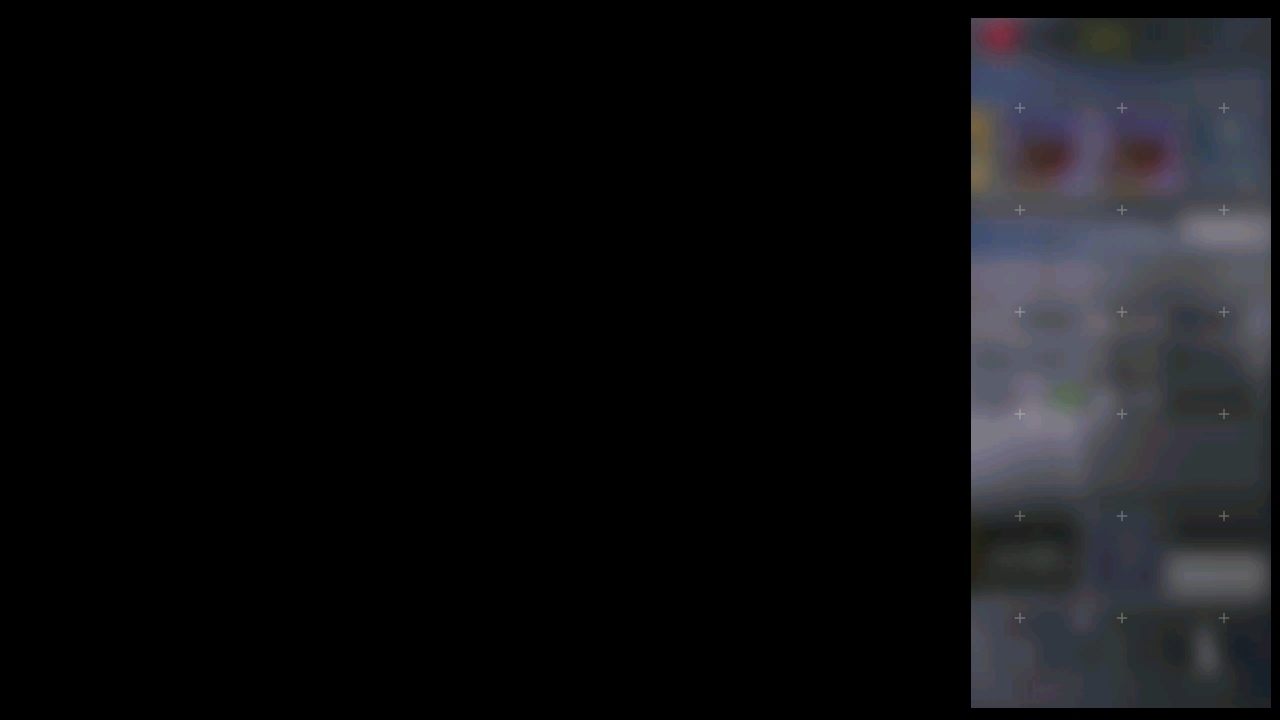
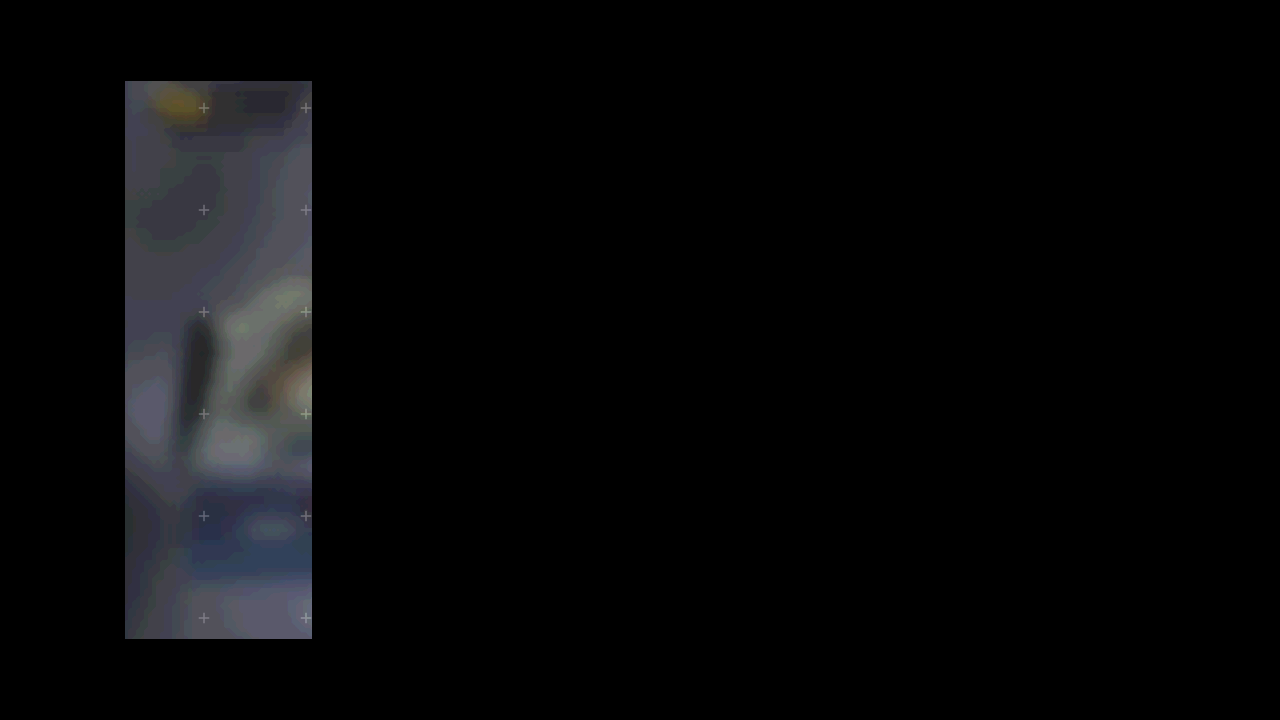
fix: UPGRADE_QUIT area

diff --git a/module/equipment/assets.py b/module/equipment/assets.py
@@ -29,4 +29,4 @@ SWIPE_AREA = Button(area={'cn': (220, 167, 580, 527), 'en': (220, 167, 580, 527)
 SWIPE_CHECK = Button(area={'cn': (190, 353, 610, 455), 'en': (190, 353, 610, 455), 'jp': (190, 353, 610, 455), 'tw': (190, 353, 610, 455)}, color={'cn': (171, 180, 198), 'en': (171, 180, 198), 'jp': (171, 180, 198), 'tw': (171, 180, 198)}, button={'cn': (190, 353, 610, 455), 'en': (190, 353, 610, 455), 'jp': (190, 353, 610, 455), 'tw': (190, 353, 610, 455)}, file={'cn': './assets/cn/equipment/SWIPE_CHECK.png', 'en': './assets/en/equipment/SWIPE_CHECK.png', 'jp': './assets/jp/equipment/SWIPE_CHECK.png', 'tw': './assets/tw/equipment/SWIPE_CHECK.png'})
 UPGRADE_ENTER = Button(area={'cn': (759, 624, 919, 674), 'en': (759, 624, 919, 674), 'jp': (759, 624, 919, 674), 'tw': (759, 624, 919, 674)}, color={'cn': (228, 159, 66), 'en': (228, 159, 66), 'jp': (228, 159, 66), 'tw': (228, 159, 66)}, button={'cn': (759, 624, 919, 674), 'en': (759, 624, 919, 674), 'jp': (759, 624, 919, 674), 'tw': (759, 624, 919, 674)}, file={'cn': './assets/cn/equipment/UPGRADE_ENTER.png', 'en': './assets/cn/equipment/UPGRADE_ENTER.png', 'jp': './assets/cn/equipment/UPGRADE_ENTER.png', 'tw': './assets/cn/equipment/UPGRADE_ENTER.png'})
 UPGRADE_ENTER_CHECK = Button(area={'cn': (825, 528, 859, 559), 'en': (825, 528, 859, 559), 'jp': (825, 528, 859, 559), 'tw': (825, 528, 859, 559)}, color={'cn': (163, 138, 71), 'en': (163, 138, 71), 'jp': (163, 138, 71), 'tw': (163, 138, 71)}, button={'cn': (825, 528, 859, 559), 'en': (825, 528, 859, 559), 'jp': (825, 528, 859, 559), 'tw': (825, 528, 859, 559)}, file={'cn': './assets/cn/equipment/UPGRADE_ENTER_CHECK.png', 'en': './assets/cn/equipment/UPGRADE_ENTER_CHECK.png', 'jp': './assets/cn/equipment/UPGRADE_ENTER_CHECK.png', 'tw': './assets/cn/equipment/UPGRADE_ENTER_CHECK.png'})
-UPGRADE_QUIT = Button(area={'cn': (971, 18, 1271, 708), 'en': (971, 18, 1271, 708), 'jp': (971, 18, 1271, 708), 'tw': (971, 18, 1271, 708)}, color={'cn': (68, 70, 78), 'en': (68, 70, 78), 'jp': (68, 70, 78), 'tw': (68, 70, 78)}, button={'cn': (971, 18, 1271, 708), 'en': (971, 18, 1271, 708), 'jp': (971, 18, 1271, 708), 'tw': (971, 18, 1271, 708)}, file={'cn': './assets/cn/equipment/UPGRADE_QUIT.png', 'en': './assets/cn/equipment/UPGRADE_QUIT.png', 'jp': './assets/cn/equipment/UPGRADE_QUIT.png', 'tw': './assets/cn/equipment/UPGRADE_QUIT.png'})
+UPGRADE_QUIT = Button(area={'cn': (125, 81, 312, 639), 'en': (125, 81, 312, 639), 'jp': (125, 81, 312, 639), 'tw': (125, 81, 312, 639)}, color={'cn': (70, 72, 80), 'en': (70, 72, 80), 'jp': (70, 72, 80), 'tw': (70, 72, 80)}, button={'cn': (125, 81, 312, 639), 'en': (125, 81, 312, 639), 'jp': (125, 81, 312, 639), 'tw': (125, 81, 312, 639)}, file={'cn': './assets/cn/equipment/UPGRADE_QUIT.png', 'en': './assets/cn/equipment/UPGRADE_QUIT.png', 'jp': './assets/cn/equipment/UPGRADE_QUIT.png', 'tw': './assets/cn/equipment/UPGRADE_QUIT.png'})

diff --git a/module/equipment/equipment_change.py b/module/equipment/equipment_change.py
@@ -59,7 +59,8 @@ class EquipmentChange(Equipment):
                     if self.appear(UPGRADE_ENTER_CHECK, interval=3):
                         self.wait_until_stable(EQUIP_SAVE)
                         self.equip_list[index] = self.image_area(EQUIP_SAVE)
-                        self.device.click(UPGRADE_QUIT)
+                        self.ui_click(
+                            click_button=UPGRADE_QUIT, check_button=EQUIPMENT_OPEN, appear_button=UPGRADE_ENTER_CHECK, skip_first_screenshot=True)
                         self.wait_until_stable(UPGRADE_QUIT)
                         break
 
